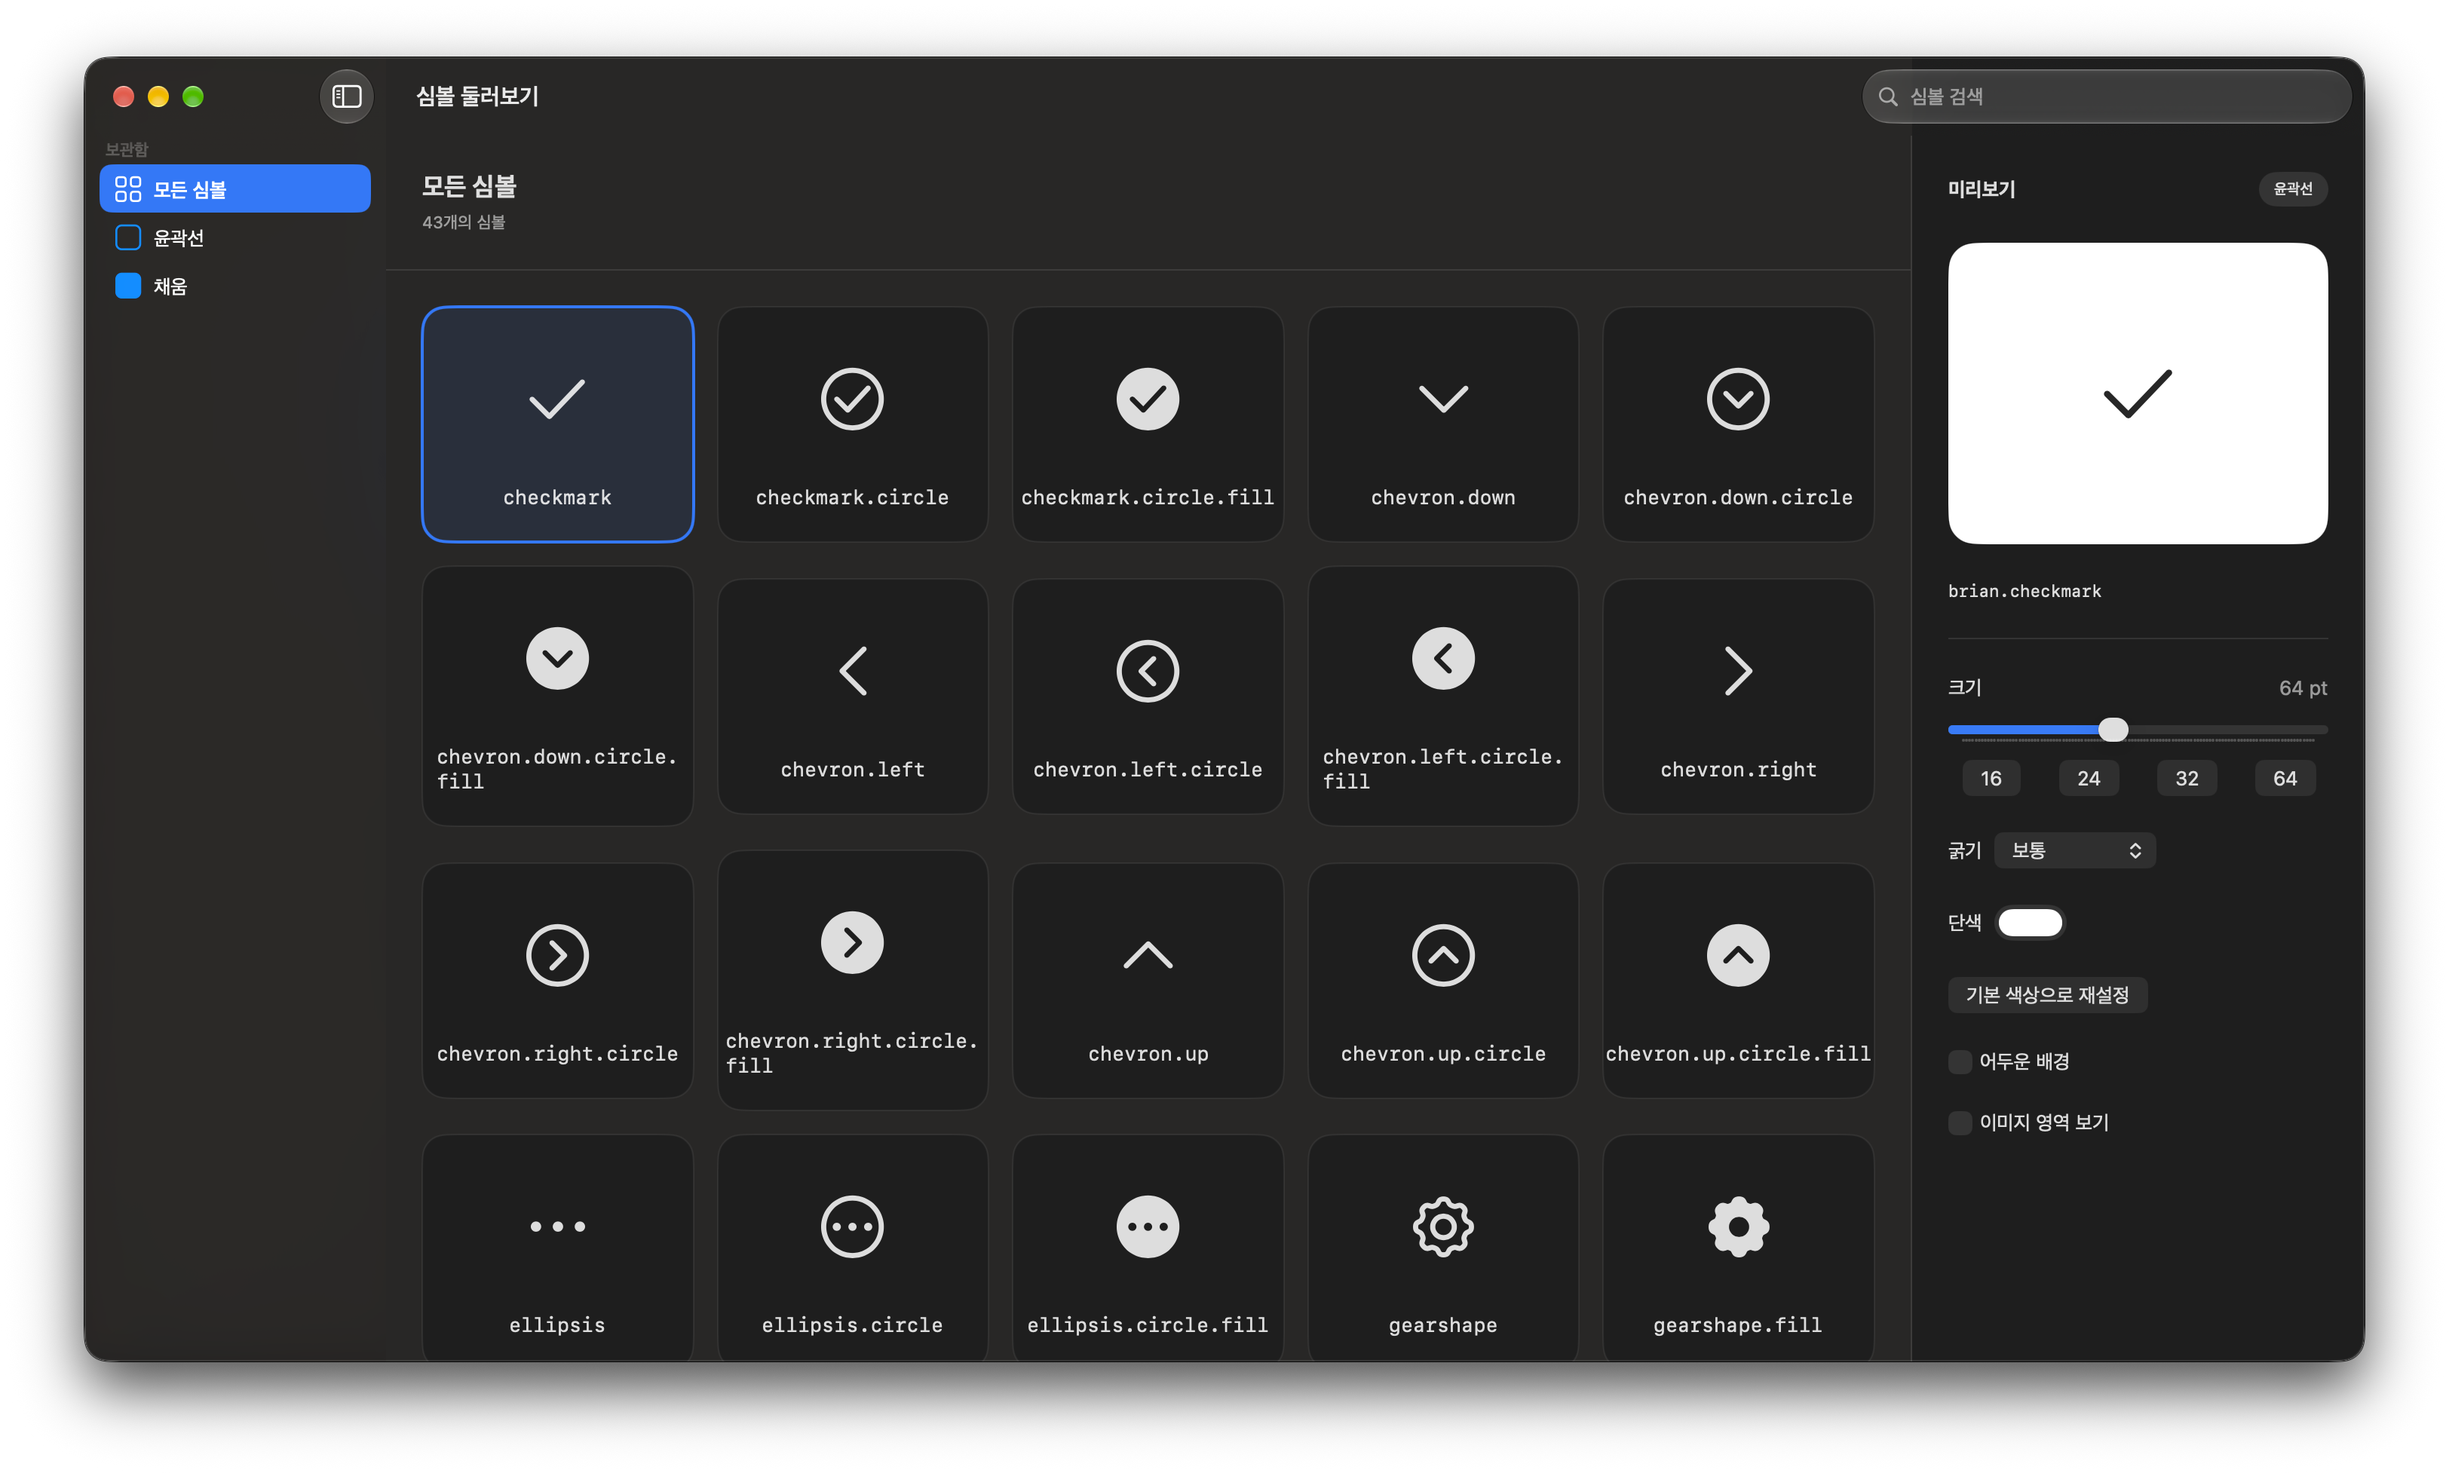
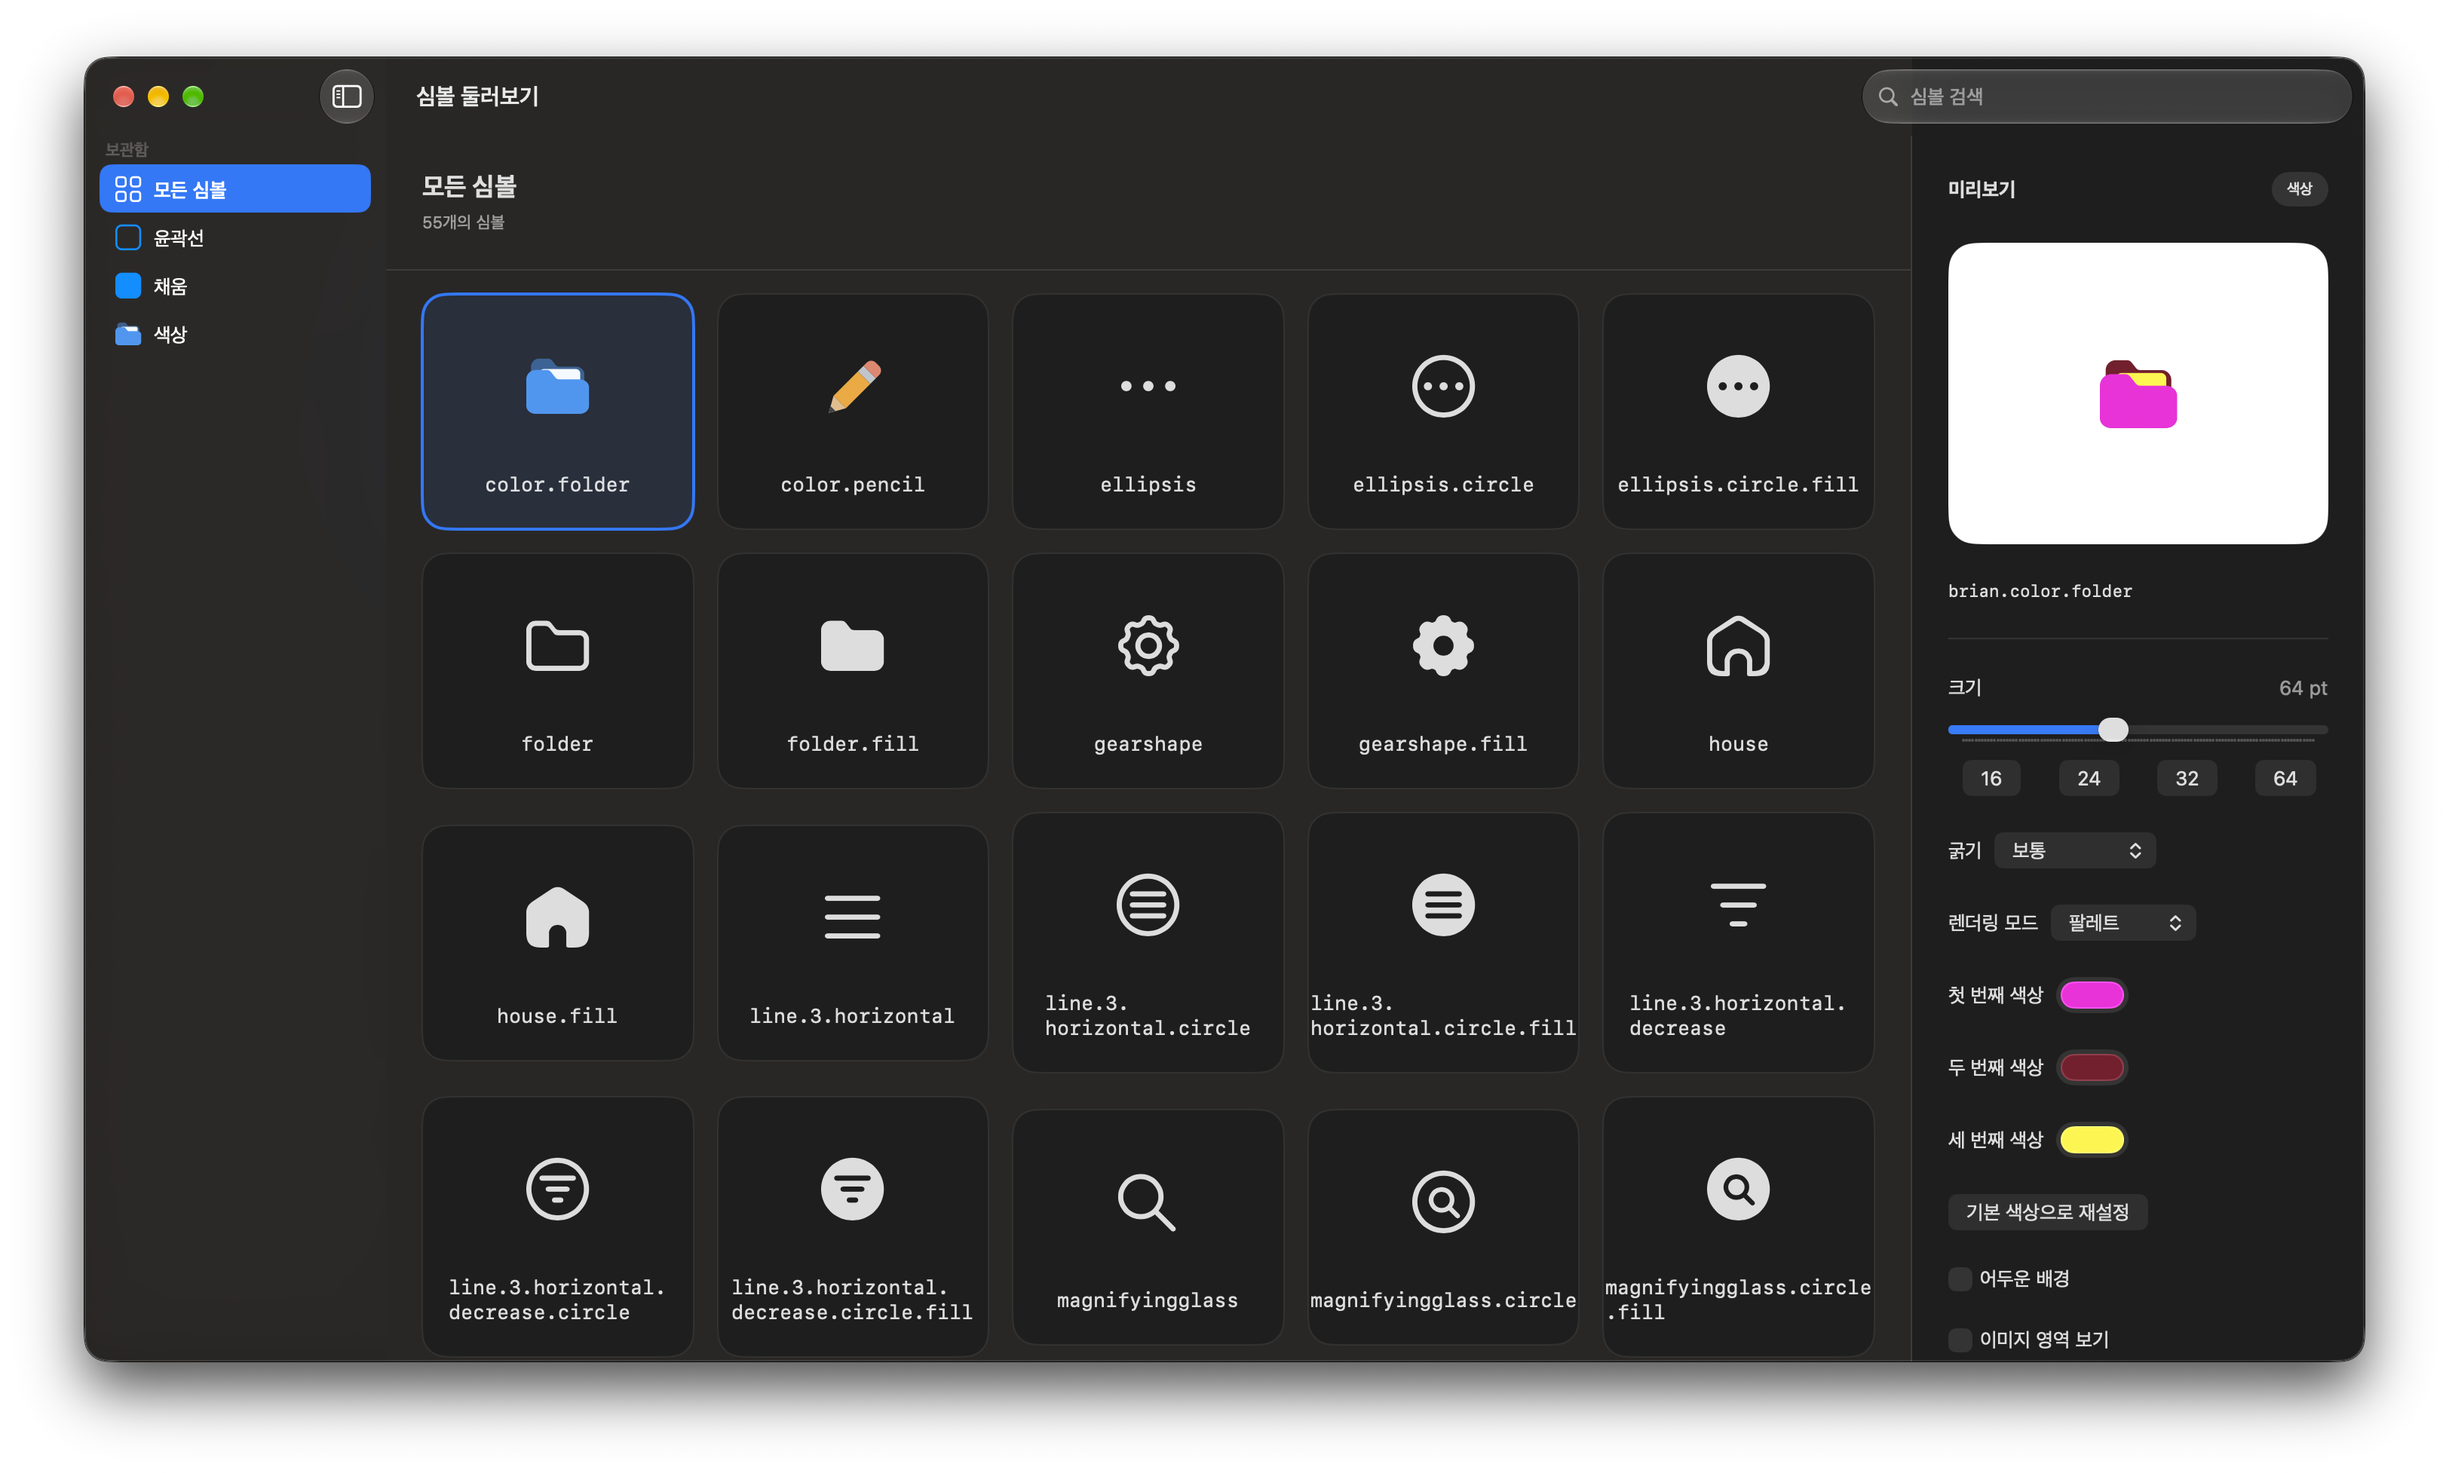
Update installation examples and demo covers for 0.3.0

diff --git a/README.md b/README.md
@@ -13,7 +13,7 @@ The package manages assets and their public names. See the [asset catalog and sp
 - Swift 6.4+ to build the package
 
 ```swift
-.package(url: "https://github.com/thebriancompany/swift-brian-symbols.git", exact: "0.2.0")
+.package(url: "https://github.com/thebriancompany/swift-brian-symbols.git", exact: "0.3.0")
 ```
 
 ## Usage

diff --git a/README.ko.md b/README.ko.md
@@ -13,7 +13,7 @@
 - 패키지 빌드에 Swift 6.4 이상 필요
 
 ```swift
-.package(url: "https://github.com/thebriancompany/swift-brian-symbols.git", exact: "0.2.0")
+.package(url: "https://github.com/thebriancompany/swift-brian-symbols.git", exact: "0.3.0")
 ```
 
 ## 사용 방법
